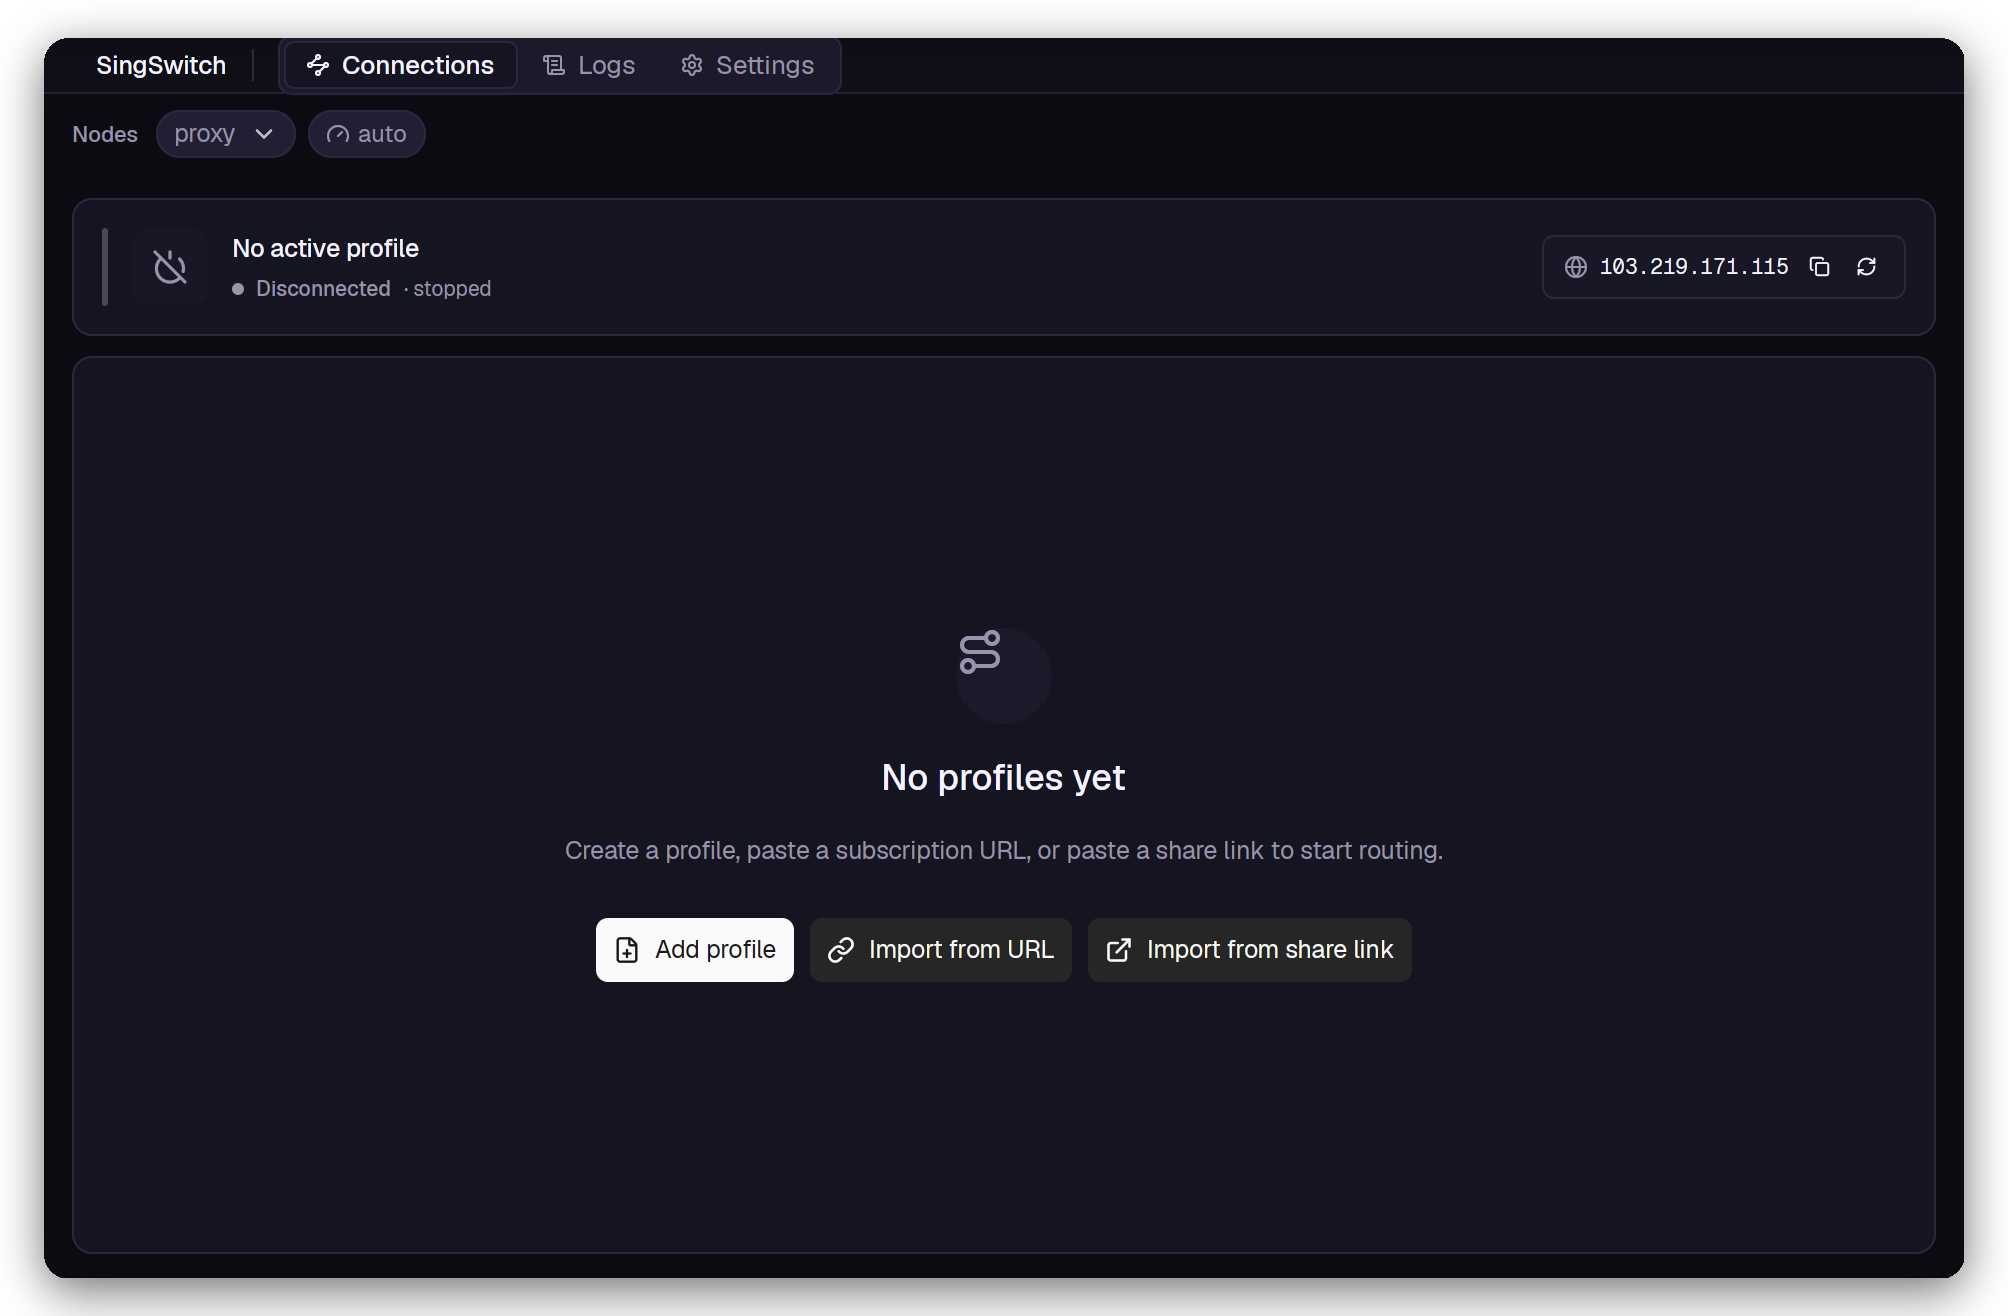
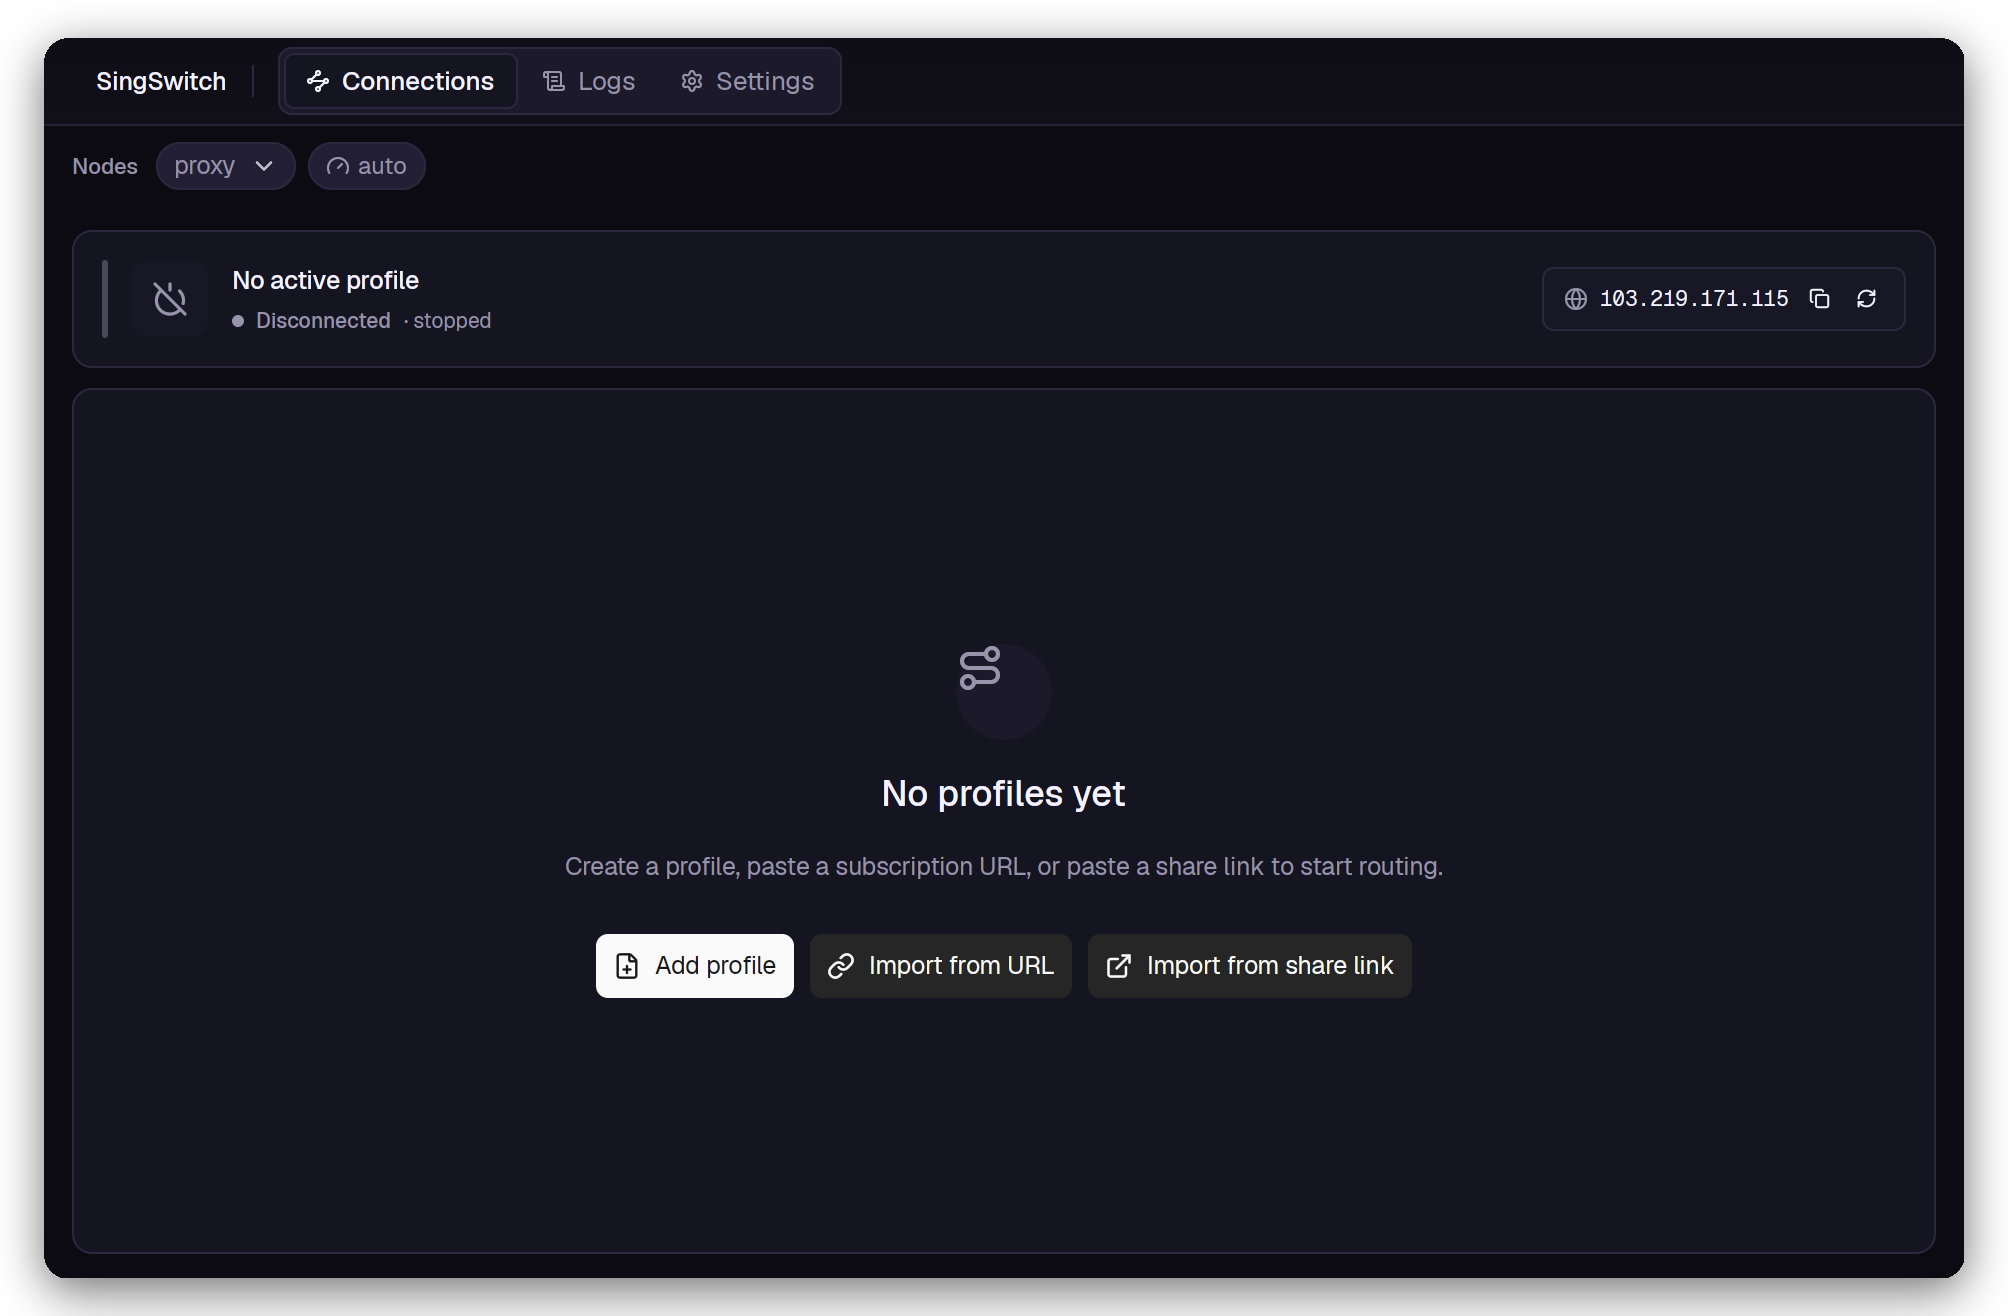
Revert "fix(macos): native traffic-light placement and 28px title bar"
This reverts commit 6f3cacdacd01085e046b46bb1e7d6e5c6073c613.

diff --git a/crates/singswitch-app/src/preview.rs b/crates/singswitch-app/src/preview.rs
@@ -151,7 +151,7 @@ fn setup_populated_snapshot(s: &mut AppStore) {
   "log": { "level": "info", "timestamp": true },
   "dns": {
     "servers": [
-      { "type": "https", "tag": "cloudflare-doh", "server": "192.0.2.1", "detour": "proxy" },
+      { "type": "https", "tag": "cloudflare-doh", "server": "1.1.1.1", "detour": "proxy" },
       { "type": "local", "tag": "local-dns", "detour": "direct" }
     ],
     "strategy": "ipv4_only",
@@ -173,7 +173,7 @@ fn setup_populated_snapshot(s: &mut AppStore) {
     {
       "type": "vless",
       "tag": "proxy",
-      "server": "192.0.2.10",
+      "server": "104.28.19.42",
       "server_port": 443,
       "uuid": "a1b2c3d4-e5f6-7890-abcd-ef1234567890",
       "flow": "xtls-rprx-vision",
@@ -221,7 +221,7 @@ fn setup_populated_snapshot(s: &mut AppStore) {
         config_parsed: true,
         facts: ConfigFacts {
             outbound_type: Some("vless".into()),
-            endpoint: Some("192.0.2.10:443".into()),
+            endpoint: Some("104.28.19.42:443".into()),
             tun_interface: Some("utun123".into()),
             has_tun_inbound: true,
         },
@@ -235,7 +235,7 @@ fn setup_populated_snapshot(s: &mut AppStore) {
         config_parsed: true,
         facts: ConfigFacts {
             outbound_type: Some("hysteria2".into()),
-            endpoint: Some("198.51.100.23:8443".into()),
+            endpoint: Some("162.159.192.1:8443".into()),
             tun_interface: Some("utun123".into()),
             has_tun_inbound: true,
         },
@@ -249,7 +249,7 @@ fn setup_populated_snapshot(s: &mut AppStore) {
         config_parsed: true,
         facts: ConfigFacts {
             outbound_type: Some("vless".into()),
-            endpoint: Some("203.0.113.7:443".into()),
+            endpoint: Some("198.41.200.5:443".into()),
             tun_interface: Some("utun123".into()),
             has_tun_inbound: true,
         },
@@ -263,7 +263,7 @@ fn setup_populated_snapshot(s: &mut AppStore) {
         config_parsed: true,
         facts: ConfigFacts {
             outbound_type: Some("shadowsocks".into()),
-            endpoint: Some("192.0.2.44:8388".into()),
+            endpoint: Some("45.76.12.89:8388".into()),
             tun_interface: None,
             has_tun_inbound: true,
         },
@@ -288,7 +288,7 @@ fn setup_populated_snapshot(s: &mut AppStore) {
             profile: Some("home-vless".to_string()),
             running: true,
             tun: Some("utun123".to_string()),
-            server: Some("192.0.2.10:443".to_string()),
+            server: Some("104.28.19.42:443".to_string()),
             pid: Some(18420),
             missing: Vec::new(),
             broken: None,
@@ -313,7 +313,7 @@ fn setup_populated_snapshot(s: &mut AppStore) {
         },
     );
     s.ip_info = Some(IpInfo {
-        ip: "198.51.100.99".to_string(),
+        ip: "103.219.171.115".to_string(),
         city: "Singapore".to_string(),
         region: "Central".to_string(),
         country: "SG".to_string(),
@@ -342,15 +342,15 @@ fn setup_sample_logs(s: &mut AppStore) {
         ),
         (
             LogLevel::Info,
-            "14:22:01.140 [outbound/vless-out] TLS Reality handshake completed with 192.0.2.10:443",
+            "14:22:01.140 [outbound/vless-out] TLS Reality handshake completed with 104.28.19.42:443",
         ),
         (
             LogLevel::Info,
-            "14:22:02.320 [inbound/tun-in] connection from 203.0.113.55:52194 to tcp:192.0.2.1:443 routed to [outbound/vless-out]",
+            "14:22:02.320 [inbound/tun-in] connection from 198.18.0.1:52194 to tcp:1.1.1.1:443 routed to [outbound/vless-out]",
         ),
         (
             LogLevel::Info,
-            "14:22:05.811 [dns] query response: resolved api.github.com to 198.51.100.4 (via remote DNS)",
+            "14:22:05.811 [dns] query response: resolved api.github.com to 140.82.121.4 (via remote DNS)",
         ),
         (
             LogLevel::Warn,
@@ -366,7 +366,7 @@ fn setup_sample_logs(s: &mut AppStore) {
         ),
         (
             LogLevel::Info,
-            "14:23:06.015 [outbound/vless-out] re-established connection to 192.0.2.10:443 (tls reality)",
+            "14:23:06.015 [outbound/vless-out] re-established connection to 104.28.19.42:443 (tls reality)",
         ),
         (
             LogLevel::Info,

diff --git a/crates/singswitch-app/src/views/mod.rs b/crates/singswitch-app/src/views/mod.rs
@@ -130,10 +130,6 @@ impl WorkspaceShell {
             .flex_1()
             .h_full()
             .items_center()
-            // macOS reserves the left ~78px of a 28px title bar for the
-            // traffic lights; start the nav after that so nothing sits under
-            // the buttons.
-            .when(cfg!(target_os = "macos"), |nav| nav.pl(px(78.0)))
             .pr(px(12.0))
             .child(
                 h_flex()
@@ -154,7 +150,7 @@ impl WorkspaceShell {
                             .items_center()
                             .gap(px(6.0))
                             .px(px(10.0))
-                            .h(px(24.0))
+                            .h(px(28.0))
                             .rounded(px(5.0))
                             .cursor_pointer()
                             .bg(if is_active {
@@ -227,18 +223,17 @@ impl Render for WorkspaceShell {
             .font_family(fonts::ui_family())
             .text_size(px(14.0))
             .child(if cfg!(target_os = "macos") {
-                // 28px is AppKit's native title bar height; with the traffic
-                // lights at (20, 12) the 28px nav tabs sit centered on the same
-                // midline as the buttons.
+                // The stock bar is 34px; 40px gives the nav row real air
+                // instead of sitting on the border.
                 {
                     let mut bar = TitleBar::new();
-                    bar.style().size.height = Some(px(28.0).into());
+                    bar.style().size.height = Some(px(44.0).into());
                     bar.child(self.render_navigation(cx))
                 }
             } else {
                 {
                     let mut bar = TitleBar::new();
-                    bar.style().size.height = Some(px(28.0).into());
+                    bar.style().size.height = Some(px(44.0).into());
                     bar.child(
                         h_flex()
                             .size_full()

diff --git a/crates/singswitch-app/src/main.rs b/crates/singswitch-app/src/main.rs
@@ -27,6 +27,7 @@ mod views;
 
 #[cfg(any(target_os = "macos", windows, target_os = "linux"))]
 mod desktop {
+    use gpui_kit::component::TitleBar;
     use gpui_kit::{
         AnyWindowHandle, App, AppContext as _, Entity, Global, KeyBinding, QuitMode, WindowBounds,
         WindowOptions, open_window, px, size,
@@ -267,17 +268,7 @@ mod desktop {
         let options = WindowOptions {
             window_bounds: Some(WindowBounds::centered(size(px(width), px(height)), cx)),
             window_min_size: Some(size(px(MIN_WINDOW_WIDTH), px(MIN_WINDOW_HEIGHT))),
-            // Native-feel traffic lights: standard 28px title bar height with
-            // AppKit's default (20, 12) offset, so the buttons sit exactly where
-            // every other macOS app puts them. The custom TitleBar's own height is
-            // set in views/mod.rs to match.
-            titlebar: Some(gpui_kit::TitlebarOptions {
-                title: Some("SingSwitch".into()),
-                appears_transparent: true,
-                traffic_light_position: Some(gpui_kit::point(px(20.0), px(12.0))),
-            }),
-            app_owns_titlebar_drag: true,
-            ..Default::default()
+            ..TitleBar::window_options()
         };
 
         match open_window(options, cx, move |window, cx| {
